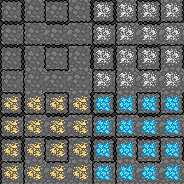
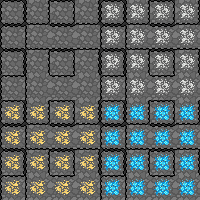
25 pixel tiles, updated images

diff --git a/src/game/Pathfinder.java b/src/game/Pathfinder.java
@@ -94,7 +94,7 @@ public class Pathfinder {
 		int left = current.x - 1;
 		
 		
-		if (Map.HEIGHT >= up) {
+		if (up >= 0) {
 			node = nodes[current.x][up];
 			if (!isBlocked(current.x, up) && !inClosedList(node) && !inOpenList(node)) {
 				node.increaseDistance(current);
@@ -103,7 +103,7 @@ public class Pathfinder {
 				open.add(node);
 			}
 		}
-		if (down >= 0) {
+		if (Map.HEIGHT >= down) {
 			node = nodes[current.x][down];
 			if (!isBlocked(current.x, down) && !inClosedList(node) && !inOpenList(node)) {
 				node.increaseDistance(current);

diff --git a/src/game/Map.java b/src/game/Map.java
@@ -11,8 +11,8 @@ import java.text.DecimalFormat;
 import java.util.Random;
 
 public class Map extends Tiles {
-	protected static final int HEIGHT = 60;
-	protected static final int WIDTH = 60;
+	protected static final int HEIGHT = 30;
+	protected static final int WIDTH = 50;
 	private int[][] elements = new int[HEIGHT][WIDTH];
 	private Grid grid;
 

diff --git a/src/game/Dwarfs.java b/src/game/Dwarfs.java
@@ -12,7 +12,7 @@ public class Dwarfs {
 	protected Grid grid;
 	protected ImagesLoader imsLoader;
 	protected int selectedDwarf = 0;
-	protected int[][] dwarfsIDs = new int[Map.HEIGHT][Map.WIDTH];
+	protected int[][] dwarfsIDs = new int[Map.WIDTH][Map.HEIGHT];
 
 	private ArrayList dwarfsObjects = new ArrayList();
 

diff --git a/src/game/Grid.java b/src/game/Grid.java
@@ -1,7 +1,7 @@
 package game;
 
 public class Grid {
-	protected static final int TILE_SIZE = 23;
+	protected static final int TILE_SIZE = 25;
 
 	public Grid() {
 
